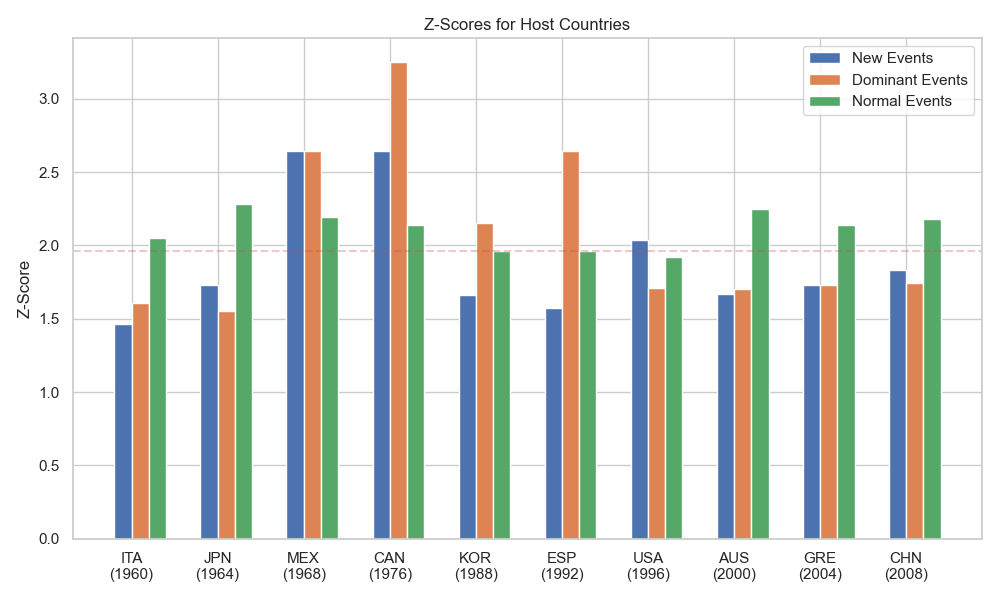
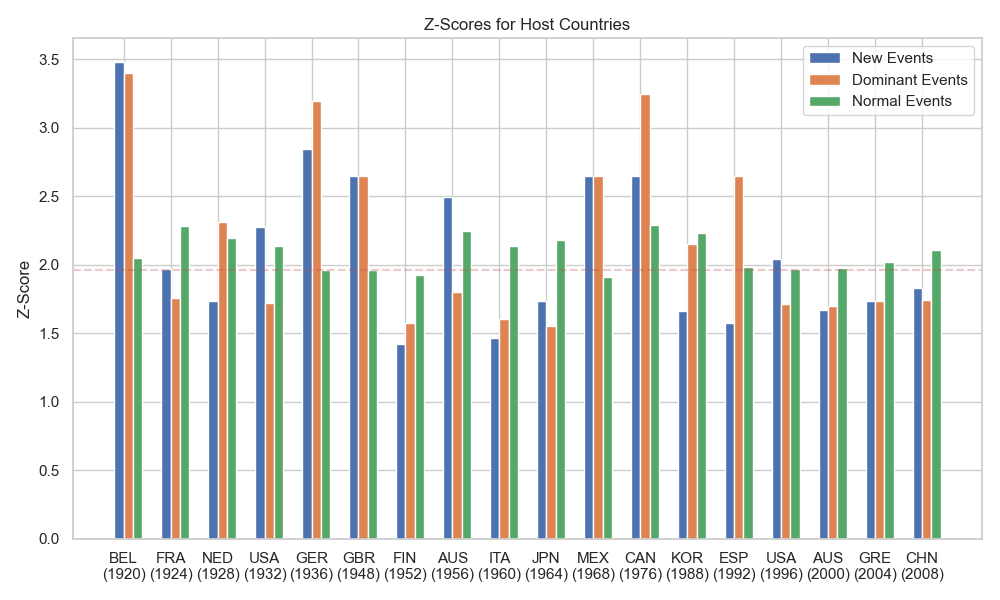
add more host countries

diff --git a/src/Q1_3/Q1-3-3_bullocks.py b/src/Q1_3/Q1-3-3_bullocks.py
@@ -3,6 +3,10 @@ import pandas as pd
 import numpy as np
 import seaborn as sns
 import matplotlib.pyplot as plt
+from matplotlib import rcParams
+
+# 设置字体为Charters
+rcParams['font.family'] = 'Charter'
 sns.set(style="whitegrid")
 
 def get_events_by_year(df, country):
@@ -87,6 +91,14 @@ def main():
         ('ITA', 1960),
         ('MEX', 1968),
         ('CAN', 1976),
+        ('AUS', 1956),
+        ('FIN', 1952),
+        ('GBR', 1948),
+        ('GER', 1936),
+        ('USA', 1932),
+        ('NED', 1928),
+        ('FRA', 1924),
+        ('BEL', 1920)
     ], key=lambda x: x[1])
     new_zscores = []
     existing_zscores = []
@@ -122,6 +134,16 @@ def main():
     
     plt.tight_layout()
     plt.savefig('host_country_zscores.png')
+    
+    # 导出所有数据为csv
+    output_df = pd.DataFrame({
+        'Country': [country for country, year in hosts],
+        'Year': [year for country, year in hosts],
+        'New Events Z-Score': new_zscores,
+        'Dominant Events Z-Score': existing_zscores,
+        'Normal Events Z-Score': weak_zscores
+    })
+    output_df.to_csv('host_country_zscores_data.csv', index=False)
 
 if __name__ == "__main__":
     main()

diff --git a/src/Q1_3/Q1-3-3.md b/src/Q1_3/Q1-3-3.md
@@ -6,4 +6,6 @@ Start with CHN, 2008 Olympic Games. The following steps are taken to calculate t
 2. 分析新增项目：得到CHN每年新增项目的数量X和在该项目中得到奖牌的总数Y，定义每年的ratio ：=Y/X
 3. 比较2008年主办时的ratio和邻近年份的ratio，Z-score=(X-μ)/σ，其中μ为均值，σ为标准差；并且输出Z-score>1.96是True还是False，不需要画在图里
 4. 对固有项目进行相同分析(2-3)
-5. 对AUS，Ethens进行相同分析(1-4)，并且画出CHN，AUS，Ethens在新增项目和固有项目的Z-score的柱状图
+5. 对其他Host country进行相同分析(1-4)，并且画出这些国家在新增项目和强势项目和普通项目的Z-score的柱状图
+
+结论:
